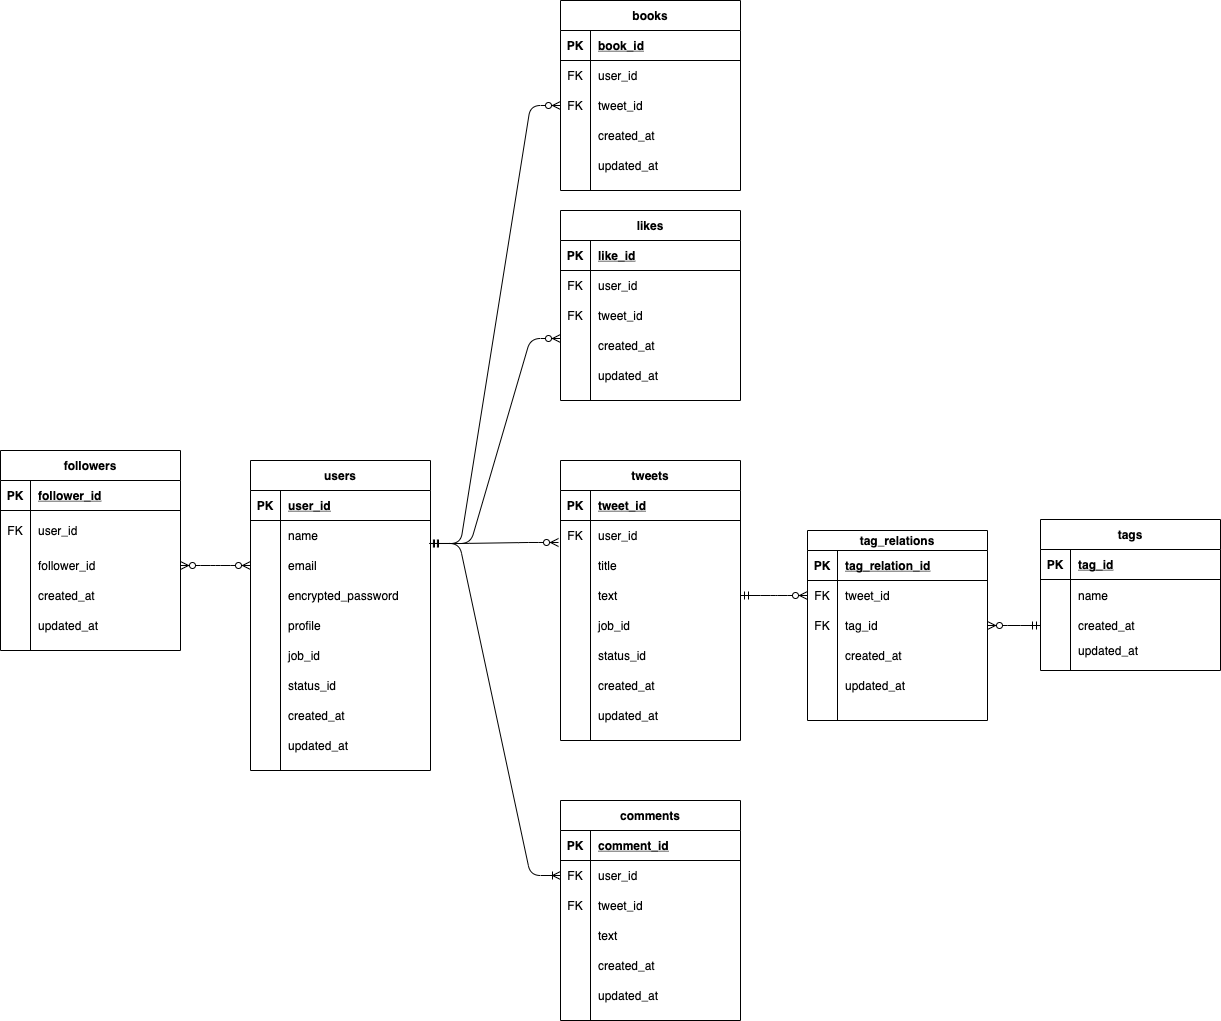
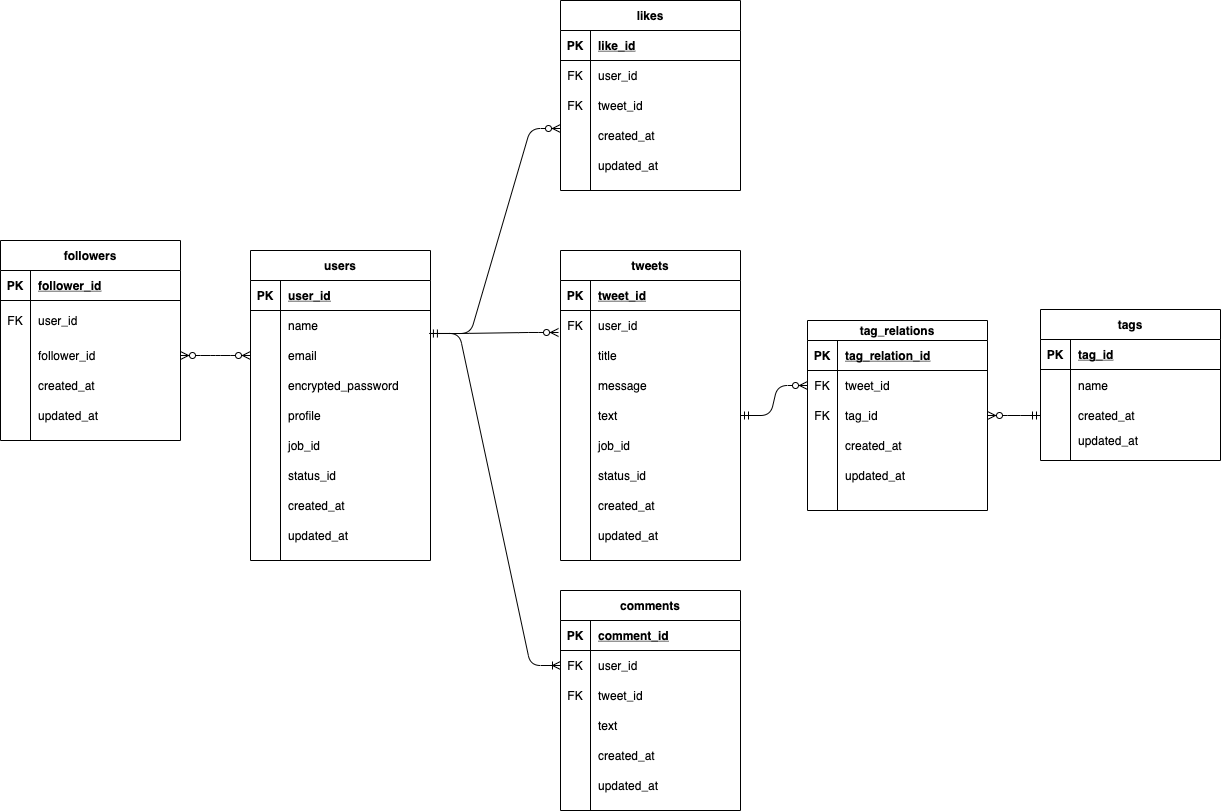
READMEの編集

diff --git a/README.md b/README.md
@@ -5,6 +5,8 @@
 数ある作品の中からご覧いただきありがとうございます。
 各職業の方がもっと仕事の質を上げたい、あるマイナスの状態の方がその状態を改善したいと思うような目的意識を与えるドラマ、映画、アニメ、漫画、個人動画などを投稿、もしくは探せるサービスです。
 
+<img src="public/images/app-top.png">
+
 サイトURL <a href="https://motivate-app.com/">Motivate</a>(ログイン画面からゲストログインボタンで簡単ログインができます。)
 
 ## 使用技術一覧
@@ -43,20 +45,87 @@
 
 - Git/GitHub
 
-### 開発中意識した点
+## 開発でこだわった点
 
-githubでissues、プルリクを活用し、擬似チーム開発を意識した点。
+### 1.アプリで最も重視している目的に合わせた機能、UI,UXの実装
+本アプリが最も重視しているのはユーザーが求めている作品に出会える事です。
+その確率を少しでも上げるため、
+1.登録時に最も解決したい心境、自身の職,状況の登録
+2.1で登録した内容を元におすすめを表示する機能
+3.4種類の検索方法
+3.あらゆるランキングの表示
+などを導入し、UI,UXも検索、ランキング部分を見つけやすくするためトップページにサイドバーとして表示しました。また、トップページの各投稿には長くなる可能性のある説明文の部分は表示せず、代わりにユーザーを惹きつける一言を表示する事で
+短時間で興味の惹かれる投稿を探せる仕様にしました。
+
+### 2.使いやすいUI,UX
+ネットにあまり不慣れな方でも直感的に使えるよう、ホバー時の透明度の変化、拡大、各ボタンを立体的なデザインへの変更、またスマホやタブレットであろうと使いやすよう入りきらなくなったサイドバーを画面遷移なしで左右からスライドで現れるような実装、メニューをハンバーガーメニューにするのではなくフッターに文字なしのアイコンのみで表示し、ハンバーガーメニューを表示する１動作を減らすなどの工夫をしました。
+
+### 3.実際の開発を意識した開発
+githubにてissueの立ち上げや、ブランチ、プルリクエスト、マージ、issueのクローズなど、実際の工程を意識した開発手順を行い、また、開発環境で多くの企業様で導入されているdocker,circleci,AWSを使用した開発を行いました。
 
 ## Motivateの開発背景
 
-自分はコロナの影響で親の収入が当時０になりました。元々大学の学費の支払いがギリギリだったのですが心配をかけまいと自分には親から告げられておらず、いきなり学費が間に合わず除籍になるかもしれないと告げられ自分の貯金を慌てて振込もうとしましたが、大学側からは明日進級会議のため今振り込んでも間に合うかわからず、最悪振り込まれたお金も返却できなくなるからやめてくれと伝えられました。再度翌年の夏に入学金を振り込めば審査次第で入学できるがその場合１年生からやり直しということも伝えられました。その日はこれからどうしていいのかもわからずお先真っ暗でした。しかし、サッカー選手の本田圭佑さんのとある動画を視聴して自分にない考えに衝撃を受けました。それは本田さんがACミランというサッカークラブに所属していた当初期待されていたような活躍ができず、ボールを持っただけで味方であるはずのファンからブーイングを受けていた当時のインタービューの動画でした。その動画で本田さんは「人が体験したことのないぐらいの谷を経験した人だけが高い山に登れる。苦しいことを経験しているのはラッキー、これをみすみす避けるようにしてはいけない。」という発言をしていました。数分の動画ですが、自分の置かれている状況を全く別の見方で見れるようにしてくれました。周りでもコロナ関係で人生が大きく変わった人がおり、同じ動画を勧めたところかなり響いていたようで本人もsnsにて広めていました。それを見てその人その人にあった人生を変えられる作品を既存のsnsやサイトよりピンポイントで探せる機能があれば、より多くの人が悪い状況を乗り越えられる、もしくは現在の状況をさらにいい方向に向かうためのモチベーションになりえるのではと思い当アプリケーションの政策を決めました。
+親が中国、フランスで車のレース関係の仕事をしておりコロナの影響で収入が０になりました。元々大学の学費の支払いがギリギリだったのですが心配をかけまいと自分には父から告げられておらず、突然学費が間に合わず除籍になるかもしれないと告げられ自分の貯金を慌てて振込もうとしましたが、大学側から明日進級会議のため今振り込んでも間に合うかわからず、最悪振り込まれたお金も返却できなくなるからやめろと伝えられました。翌年の夏に入学金を振り込めば審査次第で入学できるがその場合１年生からやり直しと聞かされました。その日自分はすぐにいろんな選択肢を調べ始めたものの頭は大混乱でした。しかし、サッカー選手の本田圭佑さんの動画を視聴して自分にない考えに衝撃を受けました。それは本田さんがACミランというサッカークラブに所属し、期待されていたような活躍ができず、ボールを持っただけで味方であるはずのファンからブーイングを受けていた頃のインタービューでした。本田さんは「人が体験したことのないぐらいの谷を経験した人だけが高い山に登れる。苦しいことを経験しているのはラッキー、これをみすみす避けるようにしてはいけない。」と発言していました。数分の動画ですが、自分の置かれている状況をへの考え方が全く変わりました。周りでもコロナ関係で人生が大きく変わった人がおり、同じ動画を勧めたところかなり響いていたようで本人もsnsで広めていました。それを見てその人にあった人生を変えられる作品を既存のアプリよりピンポイントで探せる機能があれば、より多くの人が悪い状況を乗り越えられる、もしくは現在の状況をさらにいい方向に向かうためのモチベーションになりえるのではと思い、当アプリの政策を決めました。
 
-### 機能一覧
+## 機能一覧
 
-### インフラ構成図
+### ユーザー機能
+・新規登録、ログイン（永続ログイン）、ログアウト
+・マイページ編集
+・ゲストログイン機能
+
+### 投稿関連の機能
+・投稿、編集、削除機能
+・投稿詳細機能（モーダル)
+・自身の投稿一覧
+
+### いいね機能(非同期通信)
+・投稿にいいねできる機能
+・いいね数表示機能
+・自身がいいねして投稿の一覧
+
+### タグ関連の機能(非同期通信)
+・投稿に複数タグをつけられる機能
+・タグの一覧
+・タグを検索する機能
+・タグをクリックするとそのタグのついて投稿一覧になる機能
+
+### 検索関連の機能(非同期通信)
+・キーワード検索
+・職業を選択することでその職業の方におすすめの投稿が検索できる機能
+・心境を選択することでその心境の方におすすめの投稿が検索できる機能
+
+### フォロー機能(非同期通信)
+・フォロー、フォロー解除機能
+・フォロー、フォロワー一覧表示機能
+
+### コメント機能(非同期通信)
+・投稿にコメントをする機能
+・コメントの一覧機能
+
+### おすすめ機能
+・ユーザー登録時に選んだ心境に合わせておすすめ投稿５つが表示される機能
+・おすすめ5つが自動スライドする機能
+
+### ランキング機能
+・いいね数の多い順の投稿ランキング
+・最もおすすめに選択されている職のランキング
+・最もおすすめに選択されている心境のランキング
+
+### その他機能
+・画面最上部へ移動する機能
+・フラッシュメッセージのフェイドアウト機能
+・レスポンシブ表示時、サイドバー部分を左右からjsで出し入れ自由にする機能
+
+## インフラ構成図
 
 <img src="public/images/infraimg.png">
 
-### ER図
+## ER図
 
-<img src="public/images/motivate_er.png">
+<img src="public/images/motivate_ER.png">
+
+## 今後の改善点
+・vue.jsによる部分SPA化
+・ユーザーの投稿がより魅力的に見えるデザインの導入
+・ユーザー間が関われる機能の導入
